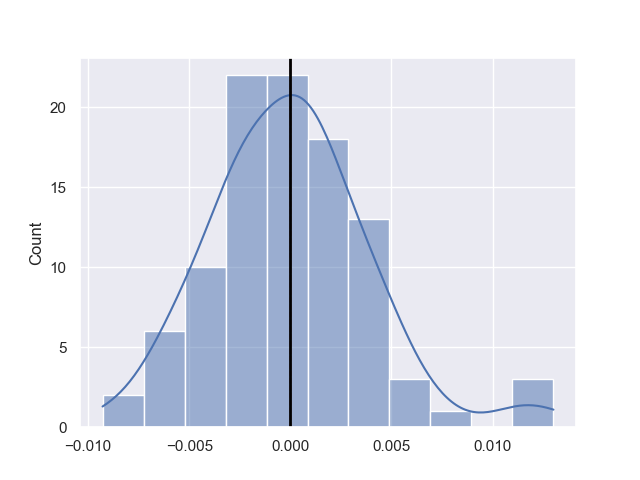
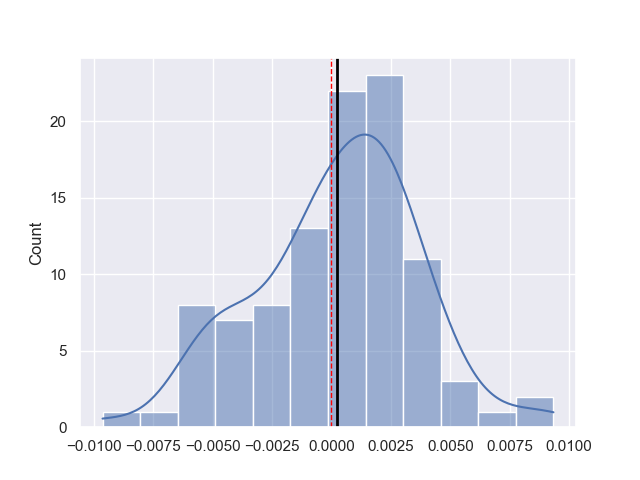
set seed for reproducibility

diff --git a/myscript.py b/myscript.py
@@ -7,11 +7,11 @@ import seaborn as sns
 import pandas as pd
 import math
 import mymodule
-sns.set_theme(style='darkgrid')
 
 ### Parameters
 n_pval = 100
-# np.random.seed(seed=1)
+
+np.random.seed(seed=1) # Reproducibility
 
 ### Script
 pval_ONEWAY = []
